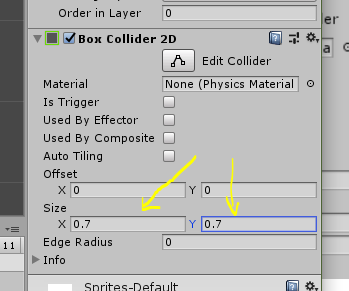
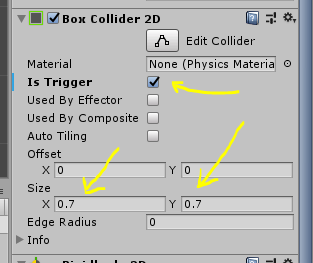
Update Snake description

diff --git a/Snake.md b/Snake.md
@@ -441,7 +441,7 @@ Nee?
 
 Geeft niet! We leggen het gewoon nog even uit ;-). Klik op het hoofd van snake in het scene venster (1) (_waar je net hernoemd hebt_). Ga dan naar het eigenschappen venster en klik vervolgens op: **Add Component -> Physics 2D -> Box Collider 2D**.
 
-Bij de vorige keren hebben we niks aangepast in het vakje van de **Box Collider**, maar in dit geval moeten we dat wel doen. Pas daarom de eigenschappen aan van de 'Size' naar 0.7 en 0.7. Dit doen we omdat Snake dan dicht langs de muur kan bewegen.  
+Bij de vorige keren hebben we niks aangepast in het vakje van de **Box Collider**, maar in dit geval moeten we dat wel doen. Pas daarom de eigenschappen aan van de 'Size' naar 0.7 en 0.7. Dit doen we omdat Snake dan dicht langs de muur kan bewegen. Ook hier moeten we de _Is Trigger_ aanzetten.  
 ![04-05](Resources/Snake/04-05-BoxCollider.PNG)
 
 Omdat Snake ook moet bewegen in het spel, moeten we nog wat toevoegen. Namelijk een **Rigidbody**. Een **Rigidbody** is iets wat zorgt voor zwaartekracht, snelheid en beweging. Laten we die dus ook toevoegen aan het 'Head' object door in het eigenschappen venster vervolgs op het volgende te klikken: **Add Component -> Physics 2D -> Rigidbody 2D**. En we gebruiken dan de volgende settings.  
@@ -523,6 +523,8 @@ IEnumerator BeweegLus()
 
 }
 ```
+
+_**Letop:** de functies moeten onder de andere functies staan, maar wel **tussen** de `class Snake {` en het einde van die class `}`_
 
 Vanuit de **Start()** functie roepen we de **BeweegLus()** functie aan. Dat doen we met een speciale functie die door Unity gemaakt is. Dit functie heet **StartCoroutine()** en we geven daar de naam van de functie aan mee die hij moet uitvoeren.
 ```cs
@@ -668,6 +670,8 @@ void Update()
 ```
 
 Sla het bestand weer op in Visual Studio en ga weer naar Unity. Klik in Unity op de 'Play' knop. Als het goed is kan je nu met de pijltjes Snake bewegen door het veld. 
+
+Doordat je nu met de pijltjes toets de waarde van de variabele `richting` veranderd zal elke keer dat de **Beweeg()** functie uitgevoerd worden gekeken worden welke kan Snake die keer op moet.
 
 Sla nu ook in Unity het project weer op zodat we zeker weten dat we later weer verder kunnen.
 
@@ -825,4 +829,356 @@ public class Snake : MonoBehaviour
 
 ### Eten opeten
 
-// TODO OnTriggerEnter2D
+We hebben net 2 variabelen toegevoegd. Één om te weten dat Snake gegeten heeft en één om te weten hoe de staartstukjes er uit zien.  
+Nu moeten we natuurlijk nog zorgen dat we ook weten dat Snake echte gegeten heeft. Hiervoor hebben we eerder in de opdracht **Box Colliders** gemaakt voor de stukjes eten en voor Snake zijn hoofd. Als nu het hoofd van Snake tegen een eten stukje aankomt dan wordt door Unity de functie **OnTriggerEnter2D()** aangeroepen. Dat doet Unity alleen als de functie er ook is. Die moeten we nu dus aanmaken.
+```cs
+private void OnTriggerEnter2D(Collider2D gebotstMet)
+{
+    // Is Snake gebotst met FoodPrefab
+    if (gebotstMet.name.StartsWith("FoodPrefab"))
+    {
+        // Snake heeft gegeten
+        this.gegeten = true;
+
+        // Het eten weghalen uit het spel
+        Destroy(gebotstMet.gameObject);
+    }
+    else
+    {
+        // Je bent met iets anders gebotst.. 
+        Time.timeScale = 0; // Stop het spel
+    }
+}
+```
+
+Even een korte uitleg van wat we nou gedaan hebben. In Unity hebben we een object gemaakt (eerder in de opdracht) voor het eten. Dat object heeft 'FoodPrefab'  
+![FoodPrefab](Resources/Snake/05-01-FoodPrefab.PNG)
+
+Nu weten we dat Snake gegeten heeft en als hij eet dan verwijderen we de stukje eten weer uit het spel. Met de **Destroy()** functie wordt het stukje eten verwijderd. (_Destroy betekend vernietigen in het engels_)
+
+Wanneer je met iets anders botst (_dat is dan je staart of de rand van het spel_) dan stoppen we het hele spel. Doordat we de tijd stil zetten. Er zijn natuurlijk allemaal andere manieren om het spel te laten stoppen, maar voor nu is dit het makkelijkst.
+
+Nu hebben we er dus voor gezorgd dat we weten wanneer Snake gegeten heeft. We moeten nu alleen nog maken dat tijdens het bewegen er een stukje staart bij komt. Dit doen we in de **Beweeg()** functie gaan we een stukje code toevoegen net boven de **if(staartstukjes.Any())** die er staat. Het stuk code ziet er zo uit (_kijk verder voor hoe de hele functie eruit ziet_):
+```cs
+void Beweeg()
+{
+    ....
+
+    // Heeft Snake gegeten? Dan moeten we extra stukje staart maken
+    if(gegeten)
+    {
+        // Stukje staart inladen in het spel en op de vorige postitie
+        // van het hoofd neerzetten
+        GameObject staart = (GameObject)Instantiate(
+            staartPrefab,
+            vorigePositieHoofd,
+            Quaternion.identity);
+
+        // Ook het stukje toevoegen aan de lijst met staart stukjes
+        staartstukjes.Insert(0, staart.transform);
+
+        // En weer laten weten dat Snake weer kan eten
+        gegeten = false;
+    }
+
+    ....
+}
+```
+
+De functie **Beweeg()** ziet er als het goed is nu zo uit:
+
+```cs
+void Beweeg()
+{
+    // We slaan eerst de vorige positie van het hoofd op
+    Vector2 vorigePositieHoofd = transform.position;
+
+    // Nu bewegen we het hoofd (en ontstaat er een gat als we een staart hebben)
+    transform.Translate(richting);
+
+    // Heeft Snake gegeten? Dan moeten we extra stukje staart maken
+    if(gegeten)
+    {
+        // Stukje staart inladen in het spel en op de vorige postitie
+        // van het hoofd neerzetten
+        GameObject staart = (GameObject)Instantiate(
+            staartPrefab,
+            vorigePositieHoofd,
+            Quaternion.identity);
+
+        // Ook het stukje toevoegen aan de lijst met staart stukjes
+        staartstukjes.Insert(0, staart.transform);
+
+        // En weer laten weten dat Snake weer kan eten
+        gegeten = false;
+    }
+    // Controleren of we een staart hebben
+    if(staartstukjes.Any())
+    {
+        // Pak het laatste staartstukje en geef het de positie waar het hoofd was
+        staartstukjes.Last().position = vorigePositieHoofd;
+
+        // Zet het laatste stukje in de lijst als eerste in de lijst
+        staartstukjes.Insert(0, staartstukjes.Last());
+
+        // Haal het staartstukje aan het einde weg
+        staartstukjes.RemoveAt(staartstukjes.Count - 1);
+    }
+}
+```
+
+Nu zie je twee keer een **if()** staan, maar dat klopt eigenlijk niet. Want wat er nu gebeurt is het volgende:
+
+- Snake beweegt
+- Heeft Snake gegeten?
+  - Ja: Voeg nieuwe stukje staart toe
+- Heeft Snake staart stukjes?
+  - Ja: Verplaats het laatst stukje staart naar de plek waar net het hoofd van Snake zat.
+
+Op het eerste gezicht lijkt dit misschien te kloppen, maar als we even verder nadenken, klopt het toch niet. Want het laatste stukje staart verplaatsen naar waar Snake zijn hoofd zat, dat hoeft alleen als we bewegen en niet als we gegeten hebben. Daarom moeten we de **else** gebruiken. 
+
+We hebben eerder geleerd dat een **if()** eigenlijk **als?** betekend. Dus `if(gegeten)` betekent eigenlijk: `als Snake gegeten heeft dan...`. Maar nu willen we maken: `als Snake gegeten heeft dan ... en anders ...`. En precies voor het stukje `en anders ...` is de **else** uitgevonden.
+
+We gaan daarom de code een heel klein beetje veranderen namelijk:
+```cs
+if(staartstukjes.Any())
+```
+Moet je veranderen in:
+```cs
+else if(staartstukjes.Any())
+```
+
+De hele functie ziet er dan nu zo uit:
+```cs
+void Beweeg()
+{
+    // We slaan eerst de vorige positie van het hoofd op
+    Vector2 vorigePositieHoofd = transform.position;
+
+    // Nu bewegen we het hoofd (en ontstaat er een gat als we een staart hebben)
+    transform.Translate(richting);
+
+    // Heeft Snake gegeten? Dan moeten we extra stukje staart maken
+    if(gegeten)
+    {
+        // Stukje staart inladen in het spel en op de vorige postitie
+        // van het hoofd neerzetten
+        GameObject staart = (GameObject)Instantiate(
+            staartPrefab,
+            vorigePositieHoofd,
+            Quaternion.identity);
+
+        // Ook het stukje toevoegen aan de lijst met staart stukjes
+        staartstukjes.Insert(0, staart.transform);
+
+        // En weer laten weten dat Snake weer kan eten
+        gegeten = false;
+    }
+    // Controleren of we een staart hebben
+    else if(staartstukjes.Any())
+    {
+        // Pak het laatste staartstukje en geef het de positie waar het hoofd was
+        staartstukjes.Last().position = vorigePositieHoofd;
+
+        // Zet het laatste stukje in de lijst als eerste in de lijst
+        staartstukjes.Insert(0, staartstukjes.Last());
+
+        // Haal het staartstukje aan het einde weg
+        staartstukjes.RemoveAt(staartstukjes.Count - 1);
+    }
+}
+```
+
+Sla je code weer op in Visual Studio zoals je eerder al hebt moeten doen.
+
+We hebben nu heel wat code gemaakt. Nu is het bijna tijd om het uit te testen. Maar er mist nog één ding. Namelijk aan de computer laten weten welk onderdeel bij de Staart hoort. We hebben eerder al in Unity een _TailPrefab_ gemaakt (zie plaatje) en deze moeten we koppelen aan de variabele _StaartPrefab_ die in de code hierboven staat.
+
+Selecteer daarom eerst in Unity het hoofd van Snake  
+![05-02](Resources/Snake/05-02-HoofdSnake.PNG)
+
+Klik daarna in het eigenschappen venster op het kleine ronde knopje om een Staart te koppelen.  
+![05-02](Resources/Snake/05-02-StaartPrefab1.PNG)
+
+In het schermpje wat er dan komt kies je de _TailPrefab_.  
+![05-03](Resources/Snake/05-03-SelectTailPrefab.PNG)
+
+Start nu het spel opnieuw en als het goed is kan je Snake bewegen. Kan je stukjes opeten en wordt Snake dan langer. En als je tegen de muur botst of tegen je eigen staart, dan ben je af en stopt het spel.
+
+De volledige code van Snake script zou er ongever zo uit moeten zien:
+```cs
+using System.Collections;
+using System.Collections.Generic;
+using UnityEngine;
+using System.Linq;
+
+public class Snake : MonoBehaviour
+{
+    Vector2 richting = Vector2.right;
+    List<Transform> staartstukjes = new List<Transform>();
+    bool gegeten = false;
+    
+    public GameObject staartPrefab;
+
+    // Start is called before the first frame update
+    void Start()
+    {
+        StartCoroutine(nameof(BeweegLus));
+    }
+
+    // Update is called once per frame
+    void Update()
+    {
+        if (Input.GetKey(KeyCode.RightArrow) && richting != Vector2.left)
+            richting = Vector2.right;
+        else if (Input.GetKey(KeyCode.LeftArrow) && richting != Vector2.right)
+            richting = Vector2.left;
+        else if (Input.GetKey(KeyCode.UpArrow) && richting != Vector2.down)
+            richting = Vector2.up;
+        else if (Input.GetKey(KeyCode.DownArrow) && richting != Vector2.up)
+            richting = Vector2.down;
+    }
+
+    void Beweeg()
+    {
+        // We slaan eerst de vorige positie van het hoofd op
+        Vector2 vorigePositieHoofd = transform.position;
+
+        // Nu bewegen we het hoofd (en ontstaat er een gat als we een staart hebben)
+        transform.Translate(richting);
+
+        // Heeft Snake gegeten? Dan moeten we extra stukje staart maken
+        if(gegeten)
+        {
+            // Stuke staart inladen in het spel en op de vorige postitie
+            // van het hoofd neerzetten
+            GameObject staart = (GameObject)Instantiate(
+                staartPrefab,
+                vorigePositieHoofd,
+                Quaternion.identity);
+
+            // Ook het stukje toevoegen aan de lijst met staart stukjes
+            staartstukjes.Insert(0, staart.transform);
+
+            // En weer laten weten dat Snake weer kan eten
+            gegeten = false;
+        }
+        // Controleren of we een staart hebben
+        else if (staartstukjes.Any())
+        {
+            // Pak het laatste staartstukje en geef het de positie waar het hoofd was
+            staartstukjes.Last().position = vorigePositieHoofd;
+
+            // Zet het laatste stukje in de lijst als eerste in de lijst
+            staartstukjes.Insert(0, staartstukjes.Last());
+
+            // Haal het staartstukje aan het einde weg
+            staartstukjes.RemoveAt(staartstukjes.Count - 1);
+        }
+    }
+
+    IEnumerator BeweegLus()
+    {
+        while(true)
+        {
+            yield return new WaitForSeconds(0.3f);
+            Beweeg();
+        }
+    }
+
+    private void OnTriggerEnter2D(Collider2D gebotstMet)
+    {
+        // Is Snake gebotst met FoodPrefab
+        if (gebotstMet.name.StartsWith("FoodPrefab"))
+        {
+            // Snake heeft gegeten
+            this.gegeten = true;
+
+            // Het eten weghalen uit het spel
+            Destroy(gebotstMet.gameObject);
+        }
+        else
+        {
+            // Je bent met iets anders gebotst.. 
+            Time.timeScale = 0; // Stop het spel
+        }
+    }
+}
+```
+
+Gefeliciteerd! Je hebt in een aantal opdrachten nu geleerd hoe je kan programmeren. Natuurlijk is er nog veel meer te leren, maar hopelijk heb je een beetje een gevoel bij wat je gedaan hebt.
+
+Nu komt misschien nog wel het leukste.. dat is lekker zelf bezig zijn en dingen verzinnen.
+
+---
+
+Als je nog tijd hebt of het leuk vindt om dingen uit te proberen hieronder nog een aantal 
+
+### 1. Snake sneller laten gaan: 
+Probeer eens het getal in `WaitForSeconds` aan te passen en kijk wat er gebeurt.
+
+### 2. Snake steed een beetje sneller laten gaan:
+Voor het maken van het eten hebben we gebruik gemaakt van de functie:  
+```cs
+InvokeRepeating(nameof(EtenMaken), 3, 4);
+```
+Misschien weet je het nog, deze functie roept na 3 seconden de functie **EtenMaken()** aan en daarna wacht hij elke keer 4 seconden en roept hij weer de functie **EtenMaken()** aan.
+
+Deze `InvokeRepeating` kunnen we ook gebruiken om het spel steeds een beetje sneller te laten gaan.
+
+Eerst moeten we een variabele aan maken voor de snelheid van het spel. 
+```cs
+float snelheid = 0.3f;
+```
+Zet deze onder de variabele 'gegeten' neer:
+```cs
+public class Snake : MonoBehaviour
+{
+    Vector2 richting = Vector2.right;
+    List<Transform> staartstukjes = new List<Transform>();
+    bool gegeten = false;
+    float snelheid = 0.3f;
+    
+    public GameObject staartPrefab;
+
+    ...
+}
+```
+
+Pas de code van de `WaitForSeconds` aan in het volgende:
+```cs
+IEnumerator BeweegLus()
+{
+    while(true)
+    {
+        yield return new WaitForSeconds(snelheid);
+        Beweeg();
+    }
+}
+```
+
+Maak nu een extra functie aan die we **VerhoogSnelheid()** noemen:  
+```cs
+void VerhoogSnelheid()
+{
+    this.snelheid = this.snelheid * 0.8f;
+}
+```
+
+Deze functie veranderd de inhoud van snelheid door elke keer de snelheid keer 0.8 te doen.
+
+Pas nu de **Start()** functie aan door met `InvokeRepeating` de **VerhoogSnelheid()** functie aan te roepen.
+```cs
+void Start()
+{
+    this.timeToMove = .3f;
+    //InvokeRepeating(nameof(Move), .3f, .2f);
+    StartCoroutine(nameof(MoveRoutine));
+    InvokeRepeating(nameof(VerhoogSnelheid), 1, 10);
+}
+```
+
+Hierboven staat dus dat na 1 seconden en daarna elke 10 seconden de snelheid van snake wordt aangepast door de functie **VerhoogSnelheid()** aan te roepen.
+
+Sla het spel op en test het uit.
+
+
